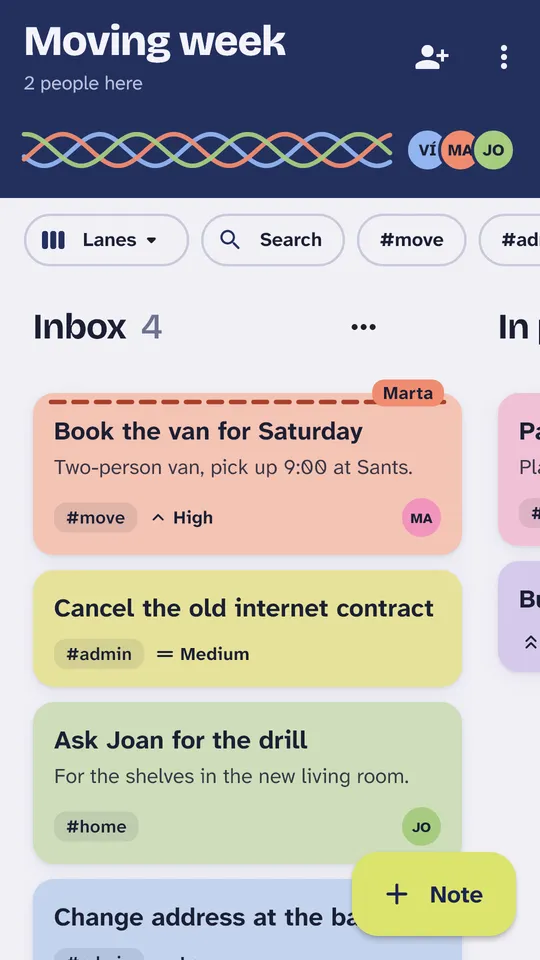
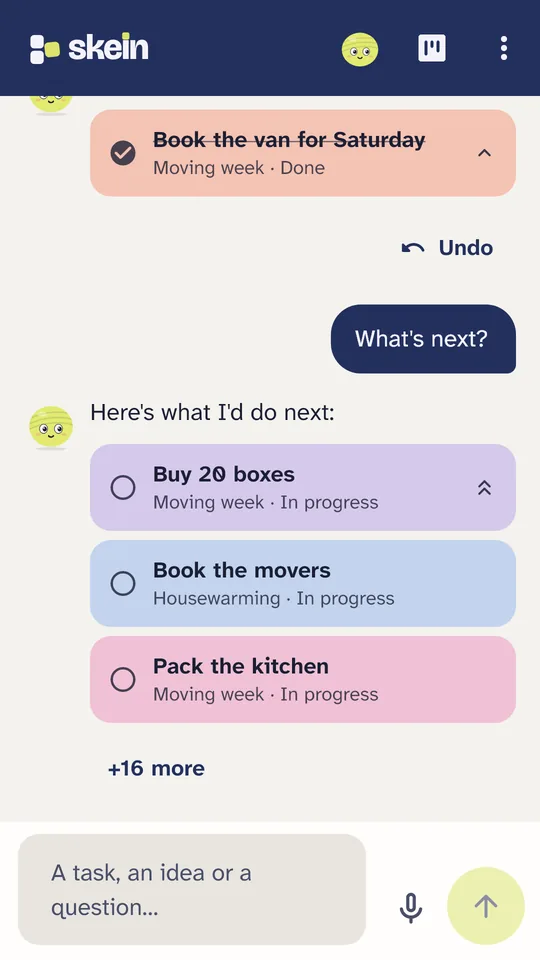
content: Skein 1.3, chat-first second brain [skip ci]

diff --git a/src/content.js b/src/content.js
@@ -35,11 +35,11 @@ export const apps = [
     name: "Skein",
     kind: "tool",
     ads: true,
-    tagline: "A serverless visual board for notes, shared device to device.",
+    tagline: "A second brain you chat with, backed by serverless kanban boards.",
     description:
-      "Kanban lanes with sticky notes you drag around. Boards are local first. Sharing is peer to peer and end-to-end encrypted, so there is no account and no server that stores your data.",
-    facts: ["Peer to peer, end-to-end encrypted", "Drag and drop with haptics", "Flutter web build served on your local network"],
-    stack: ["Flutter", "Dart", "Encryption", "Firebase"],
+      "Tell it a task, an idea, an update or a question. A private on-device assistant checks every project, then files, updates, completes or answers, with an undo for each change. Each project is a kanban board; sharing is peer to peer and end-to-end encrypted, so there is no account and no server that stores your data.",
+    facts: ["On-device AI with a validated, rule-first harness", "Peer to peer, end-to-end encrypted", "English and Spanish, by text or voice"],
+    stack: ["Flutter", "Dart", "AI", "Encryption", "Firebase"],
     play: play("com.elpages.skein"),
     icon: img("skein", "icon.webp"),
     feature: img("skein", "feature.webp"),
